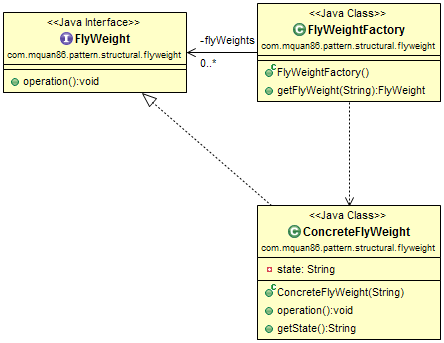
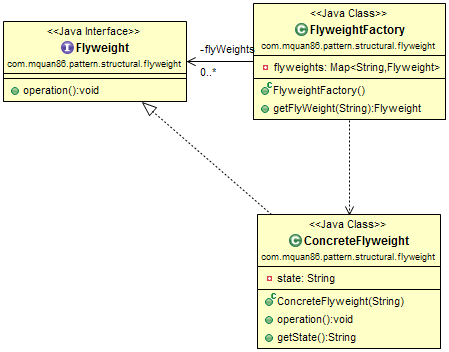
Flyweight pattern

Changed region(s): [[0.0, 0.0, 0.9955, 0.9913], [0.4099, 0.379, 0.5563, 0.5539], [0.3806, 0.3499, 0.4099, 0.379]]

diff --git a/src/main/java/com/mquan86/pattern/structural/flyweight/FlyweightFactory.java b/src/main/java/com/mquan86/pattern/structural/flyweight/FlyweightFactory.java
@@ -1,0 +1,21 @@
+package com.mquan86.pattern.structural.flyweight;
+
+import java.util.HashMap;
+import java.util.Map;
+
+/**
+ * @author Minh Quan Pham (mquan86@gmail.com)
+ *
+ */
+public class FlyweightFactory {
+    private Map<String, Flyweight> flyweights = new HashMap<String, Flyweight>();
+
+    public Flyweight getFlyWeight(String key) {
+        Flyweight flyWeight = flyweights.get(key);
+        if (flyWeight == null) {
+            flyWeight = new ConcreteFlyweight(key);
+            flyweights.put(key, flyWeight);
+        }
+        return flyWeight;
+    }
+}

diff --git a/src/main/java/com/mquan86/pattern/structural/flyweight/ConcreteFlyweight.java b/src/main/java/com/mquan86/pattern/structural/flyweight/ConcreteFlyweight.java
@@ -4,10 +4,10 @@ package com.mquan86.pattern.structural.flyweight;
  * @author Minh Quan Pham (mquan86@gmail.com)
  *
  */
-public class ConcreteFlyWeight implements FlyWeight {
+public class ConcreteFlyweight implements Flyweight {
     private String state;
 
-    public ConcreteFlyWeight(String state) {
+    public ConcreteFlyweight(String state) {
         this.state = state;
     }
 

diff --git a/src/main/java/com/mquan86/pattern/structural/flyweight/Flyweight.java b/src/main/java/com/mquan86/pattern/structural/flyweight/Flyweight.java
@@ -4,6 +4,6 @@ package com.mquan86.pattern.structural.flyweight;
  * @author Minh Quan Pham (mquan86@gmail.com)
  *
  */
-public interface FlyWeight {
+public interface Flyweight {
     public void operation();
 }

diff --git a/wiki/Flyweight.md b/wiki/Flyweight.md
@@ -3,8 +3,8 @@ Sharing similar object for minimizing memory usage or for effectily.
 
 Recognized by the method returns a cached object.
 
-![](../src/main/resources/com/mquan86/pattern/structural/flyweight/FlyWeightDiagram.png)
+![](../src/main/resources/com/mquan86/pattern/structural/flyweight/FlyweightDiagram.png)
 # Example
 Your application is a text editor, you must draw characters as it's font style. Assume that font style for every character is complex and should not be reload every time you use it. You can use Fly Weight pattern to cache that character instance. 
 
-![](../src/main/resources/com/mquan86/pattern/structural/flyweight/example/FlyWeightDiagram.png)
+![](../src/main/resources/com/mquan86/pattern/structural/flyweight/example/FlyweightDiagram.png)
